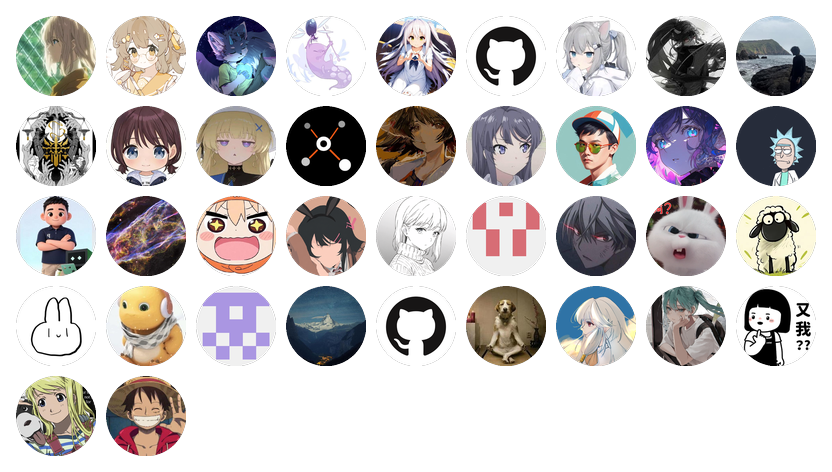
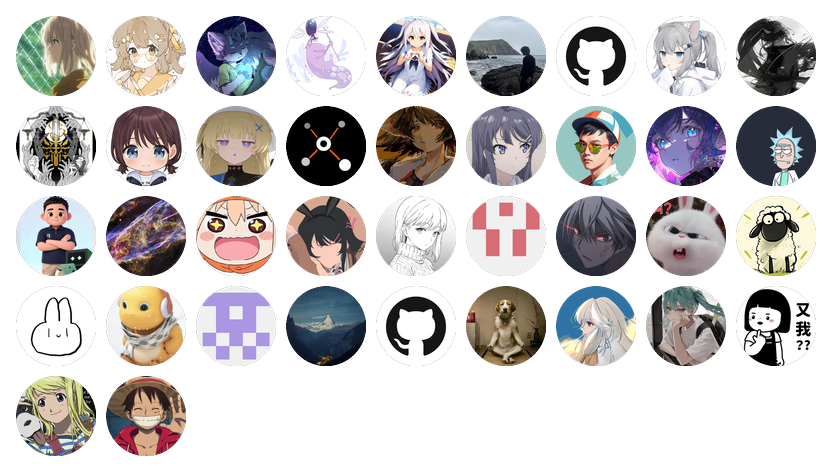
chore: update contributors

Changed region(s): [[0.5625, 0.0297, 1.0, 0.2076]]

diff --git a/.thanks-contributors/contributors.html b/.thanks-contributors/contributors.html
@@ -159,7 +159,7 @@
     
     <div class='section'>
       <div class='grid'>
-        <a class='item' href='https://github.com/Sunrisepeak' target='_blank' title='Sunrisepeak'><img src='https://avatars.githubusercontent.com/u/38786181?v=4' alt='Sunrisepeak'><div class='name'>Sunrisepeak</div><div class='email'></div></a><a class='item' href='https://github.com/FrozenLemonTee' target='_blank' title='FrozenLemonTee'><img src='https://avatars.githubusercontent.com/u/64787592?v=4' alt='FrozenLemonTee'><div class='name'>FrozenLemonTee</div><div class='email'></div></a><a class='item' href='https://github.com/ZheFeng7110' target='_blank' title='ZheFeng7110'><img src='https://avatars.githubusercontent.com/u/194236111?v=4' alt='ZheFeng7110'><div class='name'>ZheFeng7110</div><div class='email'></div></a><a class='item' href='https://github.com/Ximiaw' target='_blank' title='Ximiaw'><img src='https://avatars.githubusercontent.com/u/159742668?v=4' alt='Ximiaw'><div class='name'>Ximiaw</div><div class='email'></div></a><a class='item' href='https://github.com/julixian' target='_blank' title='julixian'><img src='https://avatars.githubusercontent.com/u/69948116?v=4' alt='julixian'><div class='name'>julixian</div><div class='email'></div></a><a class='item' href='#' target='_blank' title='Sunrisepeak'><img src='https://github.githubassets.com/images/modules/logos_page/GitHub-Mark.png' alt='Sunrisepeak'><div class='name'>Sunrisepeak</div><div class='email'>sunrisepeak@xlings.org</div></a><a class='item' href='https://github.com/helantianshen' target='_blank' title='helantianshen'><img src='https://avatars.githubusercontent.com/u/141197888?v=4' alt='helantianshen'><div class='name'>helantianshen</div><div class='email'></div></a><a class='item' href='https://github.com/lczllx' target='_blank' title='lczllx'><img src='https://avatars.githubusercontent.com/u/202370393?v=4' alt='lczllx'><div class='name'>lczllx</div><div class='email'></div></a><a class='item' href='https://github.com/NopeCharon' target='_blank' title='NopeCharon'><img src='https://avatars.githubusercontent.com/u/115794254?v=4' alt='NopeCharon'><div class='name'>NopeCharon</div><div class='email'></div></a><a class='item' href='https://github.com/duyanta123' target='_blank' title='duyanta123'><img src='https://avatars.githubusercontent.com/u/248092604?v=4' alt='duyanta123'><div class='name'>duyanta123</div><div class='email'></div></a><a class='item' href='https://github.com/lildengzi' target='_blank' title='lildengzi'><img src='https://avatars.githubusercontent.com/u/115568350?v=4' alt='lildengzi'><div class='name'>lildengzi</div><div class='email'></div></a><a class='item' href='https://github.com/MoYingJi' target='_blank' title='MoYingJi'><img src='https://avatars.githubusercontent.com/u/64307394?v=4' alt='MoYingJi'><div class='name'>MoYingJi</div><div class='email'></div></a><a class='item' href='https://github.com/xllmapi-official' target='_blank' title='xllmapi-official'><img src='https://avatars.githubusercontent.com/u/273522812?v=4' alt='xllmapi-official'><div class='name'>xllmapi-official</div><div class='email'></div></a><a class='item' href='https://github.com/Creativecole' target='_blank' title='Creativecole'><img src='https://avatars.githubusercontent.com/u/15854370?v=4' alt='Creativecole'><div class='name'>Creativecole</div><div class='email'></div></a><a class='item' href='https://github.com/lihaoze123' target='_blank' title='lihaoze123'><img src='https://avatars.githubusercontent.com/u/35329574?v=4' alt='lihaoze123'><div class='name'>lihaoze123</div><div class='email'></div></a><a class='item' href='https://github.com/temotee2103' target='_blank' title='temotee2103'><img src='https://avatars.githubusercontent.com/u/95536550?v=4' alt='temotee2103'><div class='name'>temotee2103</div><div class='email'></div></a><a class='item' href='https://github.com/Mq-b' target='_blank' title='Mq-b'><img src='https://avatars.githubusercontent.com/u/97590219?v=4' alt='Mq-b'><div class='name'>Mq-b</div><div class='email'></div></a><a class='item' href='https://github.com/13eholder' target='_blank' title='13eholder'><img src='https://avatars.githubusercontent.com/u/109021191?v=4' alt='13eholder'><div class='name'>13eholder</div><div class='email'></div></a><a class='item' href='https://github.com/alib8b8' target='_blank' title='alib8b8'><img src='https://avatars.githubusercontent.com/u/115916856?v=4' alt='alib8b8'><div class='name'>alib8b8</div><div class='email'></div></a><a class='item' href='https://github.com/dannyward630' target='_blank' title='dannyward630'><img src='https://avatars.githubusercontent.com/u/71604164?v=4' alt='dannyward630'><div class='name'>dannyward630</div><div class='email'></div></a><a class='item' href='https://github.com/HalfAnElephant' target='_blank' title='HalfAnElephant'><img src='https://avatars.githubusercontent.com/u/67222274?v=4' alt='HalfAnElephant'><div class='name'>HalfAnElephant</div><div class='email'></div></a><a class='item' href='https://github.com/Hebown' target='_blank' title='Hebown'><img src='https://avatars.githubusercontent.com/u/151939174?v=4' alt='Hebown'><div class='name'>Hebown</div><div class='email'></div></a><a class='item' href='https://github.com/lost-42' target='_blank' title='lost-42'><img src='https://avatars.githubusercontent.com/u/202471602?v=4' alt='lost-42'><div class='name'>lost-42</div><div class='email'></div></a><a class='item' href='https://github.com/MaoApoot' target='_blank' title='MaoApoot'><img src='https://avatars.githubusercontent.com/u/77091068?v=4' alt='MaoApoot'><div class='name'>MaoApoot</div><div class='email'></div></a><a class='item' href='https://github.com/Q1hangL' target='_blank' title='Q1hangL'><img src='https://avatars.githubusercontent.com/u/101320235?v=4' alt='Q1hangL'><div class='name'>Q1hangL</div><div class='email'></div></a><a class='item' href='https://github.com/ralfsqual' target='_blank' title='ralfsqual'><img src='https://avatars.githubusercontent.com/u/1629939?v=4' alt='ralfsqual'><div class='name'>ralfsqual</div><div class='email'></div></a><a class='item' href='https://github.com/topshihun' target='_blank' title='topshihun'><img src='https://avatars.githubusercontent.com/u/89700178?v=4' alt='topshihun'><div class='name'>topshihun</div><div class='email'></div></a><a class='item' href='https://github.com/xv1rcn' target='_blank' title='xv1rcn'><img src='https://avatars.githubusercontent.com/u/86313530?v=4' alt='xv1rcn'><div class='name'>xv1rcn</div><div class='email'></div></a><a class='item' href='https://github.com/yizhinailong' target='_blank' title='yizhinailong'><img src='https://avatars.githubusercontent.com/u/119092375?v=4' alt='yizhinailong'><div class='name'>yizhinailong</div><div class='email'></div></a><a class='item' href='https://github.com/Zlyraz' target='_blank' title='Zlyraz'><img src='https://avatars.githubusercontent.com/u/309086313?v=4' alt='Zlyraz'><div class='name'>Zlyraz</div><div class='email'></div></a><a class='item' href='https://github.com/wil1jiang' target='_blank' title='wil1jiang'><img src='https://avatars.githubusercontent.com/u/48466892?v=4' alt='wil1jiang'><div class='name'>wil1jiang</div><div class='email'></div></a><a class='item' href='#' target='_blank' title='speak'><img src='https://github.githubassets.com/images/modules/logos_page/GitHub-Mark.png' alt='speak'><div class='name'>speak</div><div class='email'>speak@speakmbp.lan</div></a><a class='item' href='https://github.com/521xueweihan' target='_blank' title='521xueweihan'><img src='https://avatars.githubusercontent.com/u/8255800?v=4' alt='521xueweihan'><div class='name'>521xueweihan</div><div class='email'></div></a><a class='item' href='https://github.com/Ankali-Aylina' target='_blank' title='Ankali-Aylina'><img src='https://avatars.githubusercontent.com/u/109135335?v=4' alt='Ankali-Aylina'><div class='name'>Ankali-Aylina</div><div class='email'></div></a><a class='item' href='https://github.com/ExquisiteCore' target='_blank' title='ExquisiteCore'><img src='https://avatars.githubusercontent.com/u/59426890?v=4' alt='ExquisiteCore'><div class='name'>ExquisiteCore</div><div class='email'></div></a><a class='item' href='https://github.com/jwaiting' target='_blank' title='jwaiting'><img src='https://avatars.githubusercontent.com/u/39482149?v=4' alt='jwaiting'><div class='name'>jwaiting</div><div class='email'></div></a><a class='item' href='https://github.com/sky-littlestar' target='_blank' title='sky-littlestar'><img src='https://avatars.githubusercontent.com/u/59217691?v=4' alt='sky-littlestar'><div class='name'>sky-littlestar</div><div class='email'></div></a><a class='item' href='https://github.com/tiansongyu' target='_blank' title='tiansongyu'><img src='https://avatars.githubusercontent.com/u/22124581?v=4' alt='tiansongyu'><div class='name'>tiansongyu</div><div class='email'></div></a>
+        <a class='item' href='https://github.com/Sunrisepeak' target='_blank' title='Sunrisepeak'><img src='https://avatars.githubusercontent.com/u/38786181?v=4' alt='Sunrisepeak'><div class='name'>Sunrisepeak</div><div class='email'></div></a><a class='item' href='https://github.com/FrozenLemonTee' target='_blank' title='FrozenLemonTee'><img src='https://avatars.githubusercontent.com/u/64787592?v=4' alt='FrozenLemonTee'><div class='name'>FrozenLemonTee</div><div class='email'></div></a><a class='item' href='https://github.com/ZheFeng7110' target='_blank' title='ZheFeng7110'><img src='https://avatars.githubusercontent.com/u/194236111?v=4' alt='ZheFeng7110'><div class='name'>ZheFeng7110</div><div class='email'></div></a><a class='item' href='https://github.com/Ximiaw' target='_blank' title='Ximiaw'><img src='https://avatars.githubusercontent.com/u/159742668?v=4' alt='Ximiaw'><div class='name'>Ximiaw</div><div class='email'></div></a><a class='item' href='https://github.com/julixian' target='_blank' title='julixian'><img src='https://avatars.githubusercontent.com/u/69948116?v=4' alt='julixian'><div class='name'>julixian</div><div class='email'></div></a><a class='item' href='https://github.com/NopeCharon' target='_blank' title='NopeCharon'><img src='https://avatars.githubusercontent.com/u/115794254?v=4' alt='NopeCharon'><div class='name'>NopeCharon</div><div class='email'></div></a><a class='item' href='#' target='_blank' title='Sunrisepeak'><img src='https://github.githubassets.com/images/modules/logos_page/GitHub-Mark.png' alt='Sunrisepeak'><div class='name'>Sunrisepeak</div><div class='email'>sunrisepeak@xlings.org</div></a><a class='item' href='https://github.com/helantianshen' target='_blank' title='helantianshen'><img src='https://avatars.githubusercontent.com/u/141197888?v=4' alt='helantianshen'><div class='name'>helantianshen</div><div class='email'></div></a><a class='item' href='https://github.com/lczllx' target='_blank' title='lczllx'><img src='https://avatars.githubusercontent.com/u/202370393?v=4' alt='lczllx'><div class='name'>lczllx</div><div class='email'></div></a><a class='item' href='https://github.com/duyanta123' target='_blank' title='duyanta123'><img src='https://avatars.githubusercontent.com/u/248092604?v=4' alt='duyanta123'><div class='name'>duyanta123</div><div class='email'></div></a><a class='item' href='https://github.com/lildengzi' target='_blank' title='lildengzi'><img src='https://avatars.githubusercontent.com/u/115568350?v=4' alt='lildengzi'><div class='name'>lildengzi</div><div class='email'></div></a><a class='item' href='https://github.com/MoYingJi' target='_blank' title='MoYingJi'><img src='https://avatars.githubusercontent.com/u/64307394?v=4' alt='MoYingJi'><div class='name'>MoYingJi</div><div class='email'></div></a><a class='item' href='https://github.com/xllmapi-official' target='_blank' title='xllmapi-official'><img src='https://avatars.githubusercontent.com/u/273522812?v=4' alt='xllmapi-official'><div class='name'>xllmapi-official</div><div class='email'></div></a><a class='item' href='https://github.com/Creativecole' target='_blank' title='Creativecole'><img src='https://avatars.githubusercontent.com/u/15854370?v=4' alt='Creativecole'><div class='name'>Creativecole</div><div class='email'></div></a><a class='item' href='https://github.com/lihaoze123' target='_blank' title='lihaoze123'><img src='https://avatars.githubusercontent.com/u/35329574?v=4' alt='lihaoze123'><div class='name'>lihaoze123</div><div class='email'></div></a><a class='item' href='https://github.com/temotee2103' target='_blank' title='temotee2103'><img src='https://avatars.githubusercontent.com/u/95536550?v=4' alt='temotee2103'><div class='name'>temotee2103</div><div class='email'></div></a><a class='item' href='https://github.com/Mq-b' target='_blank' title='Mq-b'><img src='https://avatars.githubusercontent.com/u/97590219?v=4' alt='Mq-b'><div class='name'>Mq-b</div><div class='email'></div></a><a class='item' href='https://github.com/13eholder' target='_blank' title='13eholder'><img src='https://avatars.githubusercontent.com/u/109021191?v=4' alt='13eholder'><div class='name'>13eholder</div><div class='email'></div></a><a class='item' href='https://github.com/alib8b8' target='_blank' title='alib8b8'><img src='https://avatars.githubusercontent.com/u/115916856?v=4' alt='alib8b8'><div class='name'>alib8b8</div><div class='email'></div></a><a class='item' href='https://github.com/dannyward630' target='_blank' title='dannyward630'><img src='https://avatars.githubusercontent.com/u/71604164?v=4' alt='dannyward630'><div class='name'>dannyward630</div><div class='email'></div></a><a class='item' href='https://github.com/HalfAnElephant' target='_blank' title='HalfAnElephant'><img src='https://avatars.githubusercontent.com/u/67222274?v=4' alt='HalfAnElephant'><div class='name'>HalfAnElephant</div><div class='email'></div></a><a class='item' href='https://github.com/Hebown' target='_blank' title='Hebown'><img src='https://avatars.githubusercontent.com/u/151939174?v=4' alt='Hebown'><div class='name'>Hebown</div><div class='email'></div></a><a class='item' href='https://github.com/lost-42' target='_blank' title='lost-42'><img src='https://avatars.githubusercontent.com/u/202471602?v=4' alt='lost-42'><div class='name'>lost-42</div><div class='email'></div></a><a class='item' href='https://github.com/MaoApoot' target='_blank' title='MaoApoot'><img src='https://avatars.githubusercontent.com/u/77091068?v=4' alt='MaoApoot'><div class='name'>MaoApoot</div><div class='email'></div></a><a class='item' href='https://github.com/Q1hangL' target='_blank' title='Q1hangL'><img src='https://avatars.githubusercontent.com/u/101320235?v=4' alt='Q1hangL'><div class='name'>Q1hangL</div><div class='email'></div></a><a class='item' href='https://github.com/ralfsqual' target='_blank' title='ralfsqual'><img src='https://avatars.githubusercontent.com/u/1629939?v=4' alt='ralfsqual'><div class='name'>ralfsqual</div><div class='email'></div></a><a class='item' href='https://github.com/topshihun' target='_blank' title='topshihun'><img src='https://avatars.githubusercontent.com/u/89700178?v=4' alt='topshihun'><div class='name'>topshihun</div><div class='email'></div></a><a class='item' href='https://github.com/xv1rcn' target='_blank' title='xv1rcn'><img src='https://avatars.githubusercontent.com/u/86313530?v=4' alt='xv1rcn'><div class='name'>xv1rcn</div><div class='email'></div></a><a class='item' href='https://github.com/yizhinailong' target='_blank' title='yizhinailong'><img src='https://avatars.githubusercontent.com/u/119092375?v=4' alt='yizhinailong'><div class='name'>yizhinailong</div><div class='email'></div></a><a class='item' href='https://github.com/Zlyraz' target='_blank' title='Zlyraz'><img src='https://avatars.githubusercontent.com/u/309086313?v=4' alt='Zlyraz'><div class='name'>Zlyraz</div><div class='email'></div></a><a class='item' href='https://github.com/wil1jiang' target='_blank' title='wil1jiang'><img src='https://avatars.githubusercontent.com/u/48466892?v=4' alt='wil1jiang'><div class='name'>wil1jiang</div><div class='email'></div></a><a class='item' href='#' target='_blank' title='speak'><img src='https://github.githubassets.com/images/modules/logos_page/GitHub-Mark.png' alt='speak'><div class='name'>speak</div><div class='email'>speak@speakmbp.lan</div></a><a class='item' href='https://github.com/521xueweihan' target='_blank' title='521xueweihan'><img src='https://avatars.githubusercontent.com/u/8255800?v=4' alt='521xueweihan'><div class='name'>521xueweihan</div><div class='email'></div></a><a class='item' href='https://github.com/Ankali-Aylina' target='_blank' title='Ankali-Aylina'><img src='https://avatars.githubusercontent.com/u/109135335?v=4' alt='Ankali-Aylina'><div class='name'>Ankali-Aylina</div><div class='email'></div></a><a class='item' href='https://github.com/ExquisiteCore' target='_blank' title='ExquisiteCore'><img src='https://avatars.githubusercontent.com/u/59426890?v=4' alt='ExquisiteCore'><div class='name'>ExquisiteCore</div><div class='email'></div></a><a class='item' href='https://github.com/jwaiting' target='_blank' title='jwaiting'><img src='https://avatars.githubusercontent.com/u/39482149?v=4' alt='jwaiting'><div class='name'>jwaiting</div><div class='email'></div></a><a class='item' href='https://github.com/sky-littlestar' target='_blank' title='sky-littlestar'><img src='https://avatars.githubusercontent.com/u/59217691?v=4' alt='sky-littlestar'><div class='name'>sky-littlestar</div><div class='email'></div></a><a class='item' href='https://github.com/tiansongyu' target='_blank' title='tiansongyu'><img src='https://avatars.githubusercontent.com/u/22124581?v=4' alt='tiansongyu'><div class='name'>tiansongyu</div><div class='email'></div></a>
       </div>
     </div>
 

diff --git a/README.md b/README.md
@@ -142,6 +142,13 @@ jobs:
         </a>
     </td>
     <td align="center">
+        <a href="https://github.com/NopeCharon">
+            <img src="https://avatars.githubusercontent.com/u/115794254?v=4" width="50;" alt="NopeCharon"/>
+            <br />
+            <sub><b>NopeCharon</b></sub>
+        </a>
+    </td>
+    <td align="center">
         <a href="#">
             <img src="https://github.githubassets.com/images/modules/logos_page/GitHub-Mark.png" width="50;" alt="Sunrisepeak"/>
             <br />
@@ -155,20 +162,13 @@ jobs:
             <sub><b>helantianshen</b></sub>
         </a>
     </td>
+</tr>
+<tr>
     <td align="center">
         <a href="https://github.com/lczllx">
             <img src="https://avatars.githubusercontent.com/u/202370393?v=4" width="50;" alt="lczllx"/>
             <br />
             <sub><b>lczllx</b></sub>
-        </a>
-    </td>
-</tr>
-<tr>
-    <td align="center">
-        <a href="https://github.com/NopeCharon">
-            <img src="https://avatars.githubusercontent.com/u/115794254?v=4" width="50;" alt="NopeCharon"/>
-            <br />
-            <sub><b>NopeCharon</b></sub>
         </a>
     </td>
     <td align="center">

diff --git a/.thanks-contributors/contributors.md b/.thanks-contributors/contributors.md
@@ -38,6 +38,13 @@
         </a>
     </td>
     <td align="center">
+        <a href="https://github.com/NopeCharon">
+            <img src="https://avatars.githubusercontent.com/u/115794254?v=4" width="50;" alt="NopeCharon"/>
+            <br />
+            <sub><b>NopeCharon</b></sub>
+        </a>
+    </td>
+    <td align="center">
         <a href="#">
             <img src="https://github.githubassets.com/images/modules/logos_page/GitHub-Mark.png" width="50;" alt="Sunrisepeak"/>
             <br />
@@ -56,13 +63,6 @@
             <img src="https://avatars.githubusercontent.com/u/202370393?v=4" width="50;" alt="lczllx"/>
             <br />
             <sub><b>lczllx</b></sub>
-        </a>
-    </td>
-    <td align="center">
-        <a href="https://github.com/NopeCharon">
-            <img src="https://avatars.githubusercontent.com/u/115794254?v=4" width="50;" alt="NopeCharon"/>
-            <br />
-            <sub><b>NopeCharon</b></sub>
         </a>
     </td>
     <td align="center">
